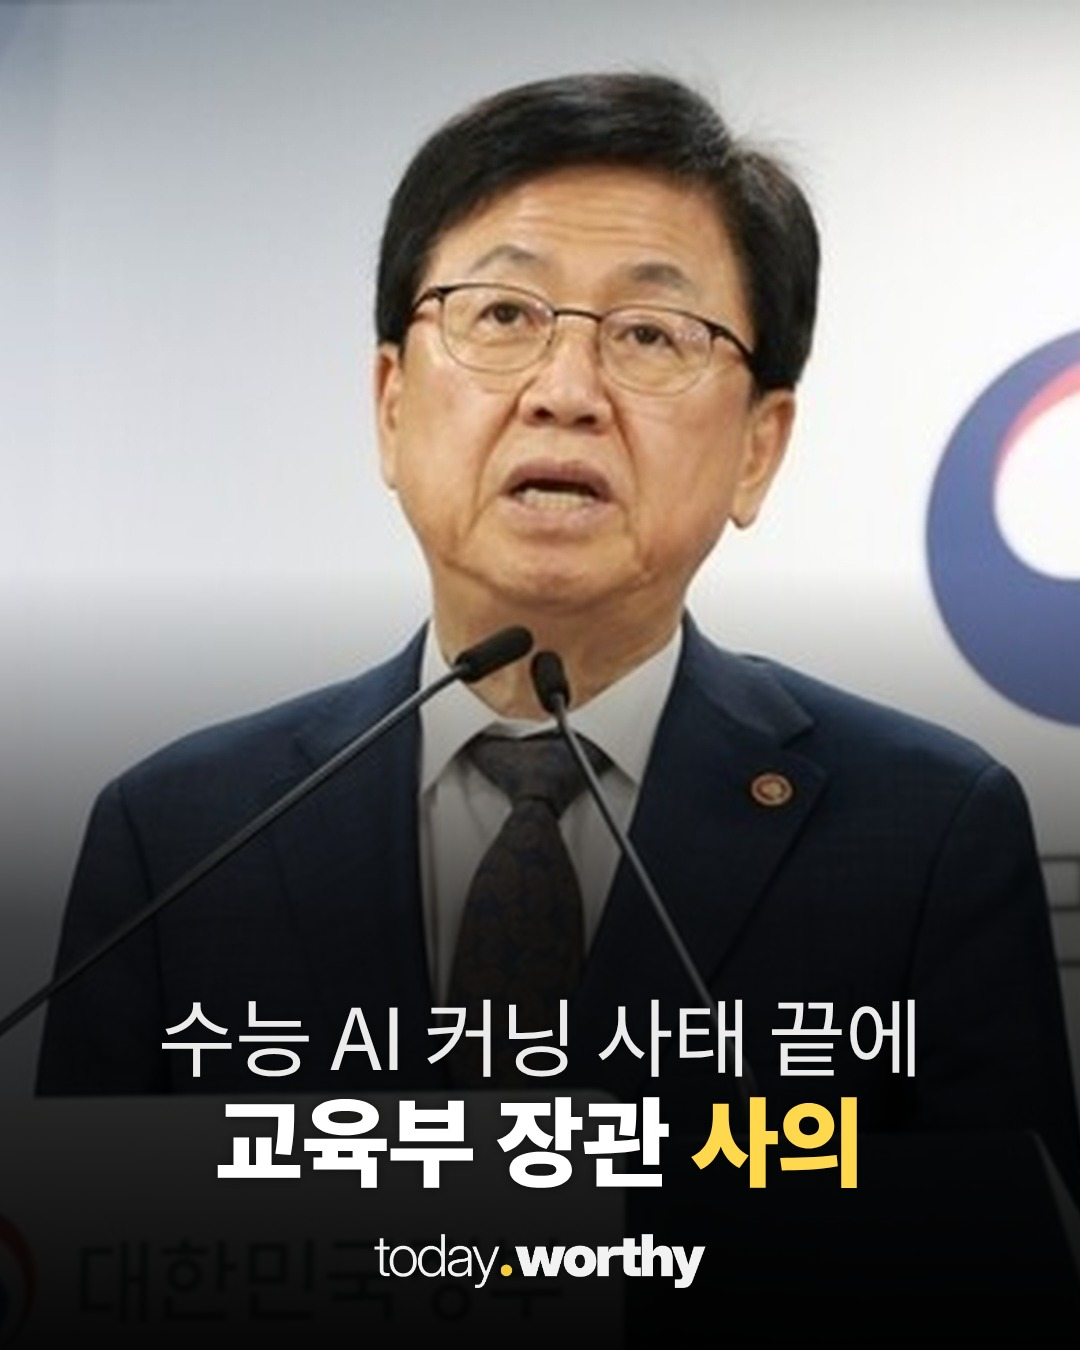
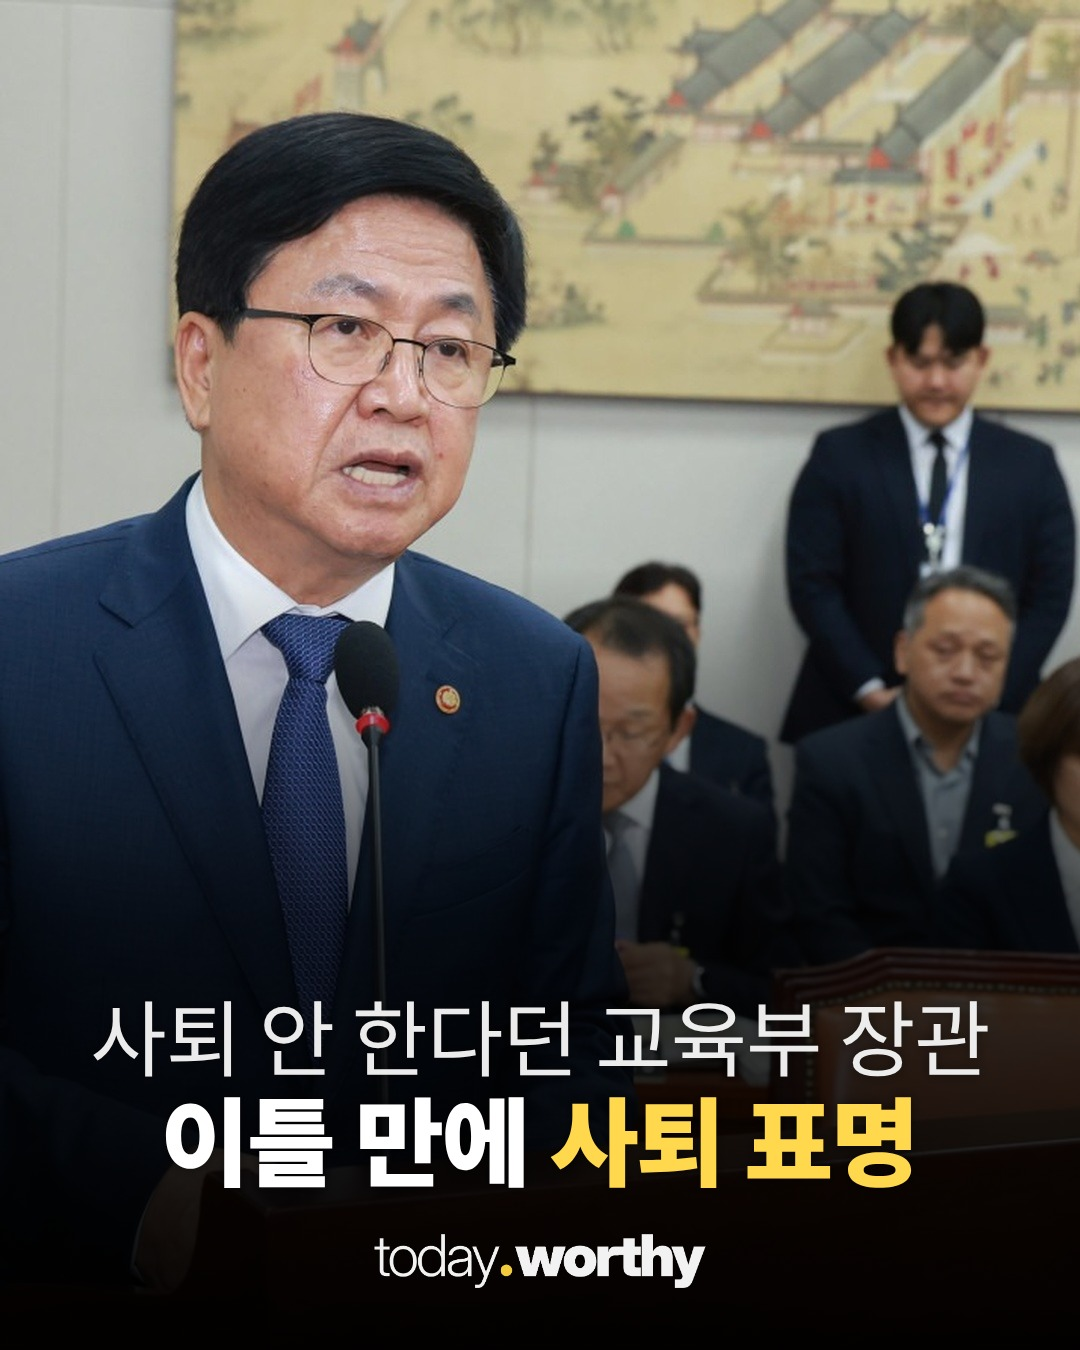
choiresign: 표지 선명한 사진(이투데이 국감 발언)·제목 '사퇴 안 한다던 교육부 장관 / 이틀 만에 사퇴 표명'
Claude-Session: https://claude.ai/code/session_01FGsw5QnWxFUsnopcB1Czie

diff --git a/media/20261122-choiresign/build_cards.py b/media/20261122-choiresign/build_cards.py
@@ -54,7 +54,7 @@ def panel(rows, h=640, gap=None):
 
 
 
-fit(op(O / "press05.jpg"), W, H, (.5, .15)).save(O / "cover_bg.jpg", quality=95)
+fit(op(O / "cover_src.jpg"), W, H, (.28, .2)).save(O / "cover_bg.jpg", quality=95)
 
 # 2장 사의 표명
 frame(("22일, 교육부 대변인실 입장문", "\"수능 '책임 통감'\""),
